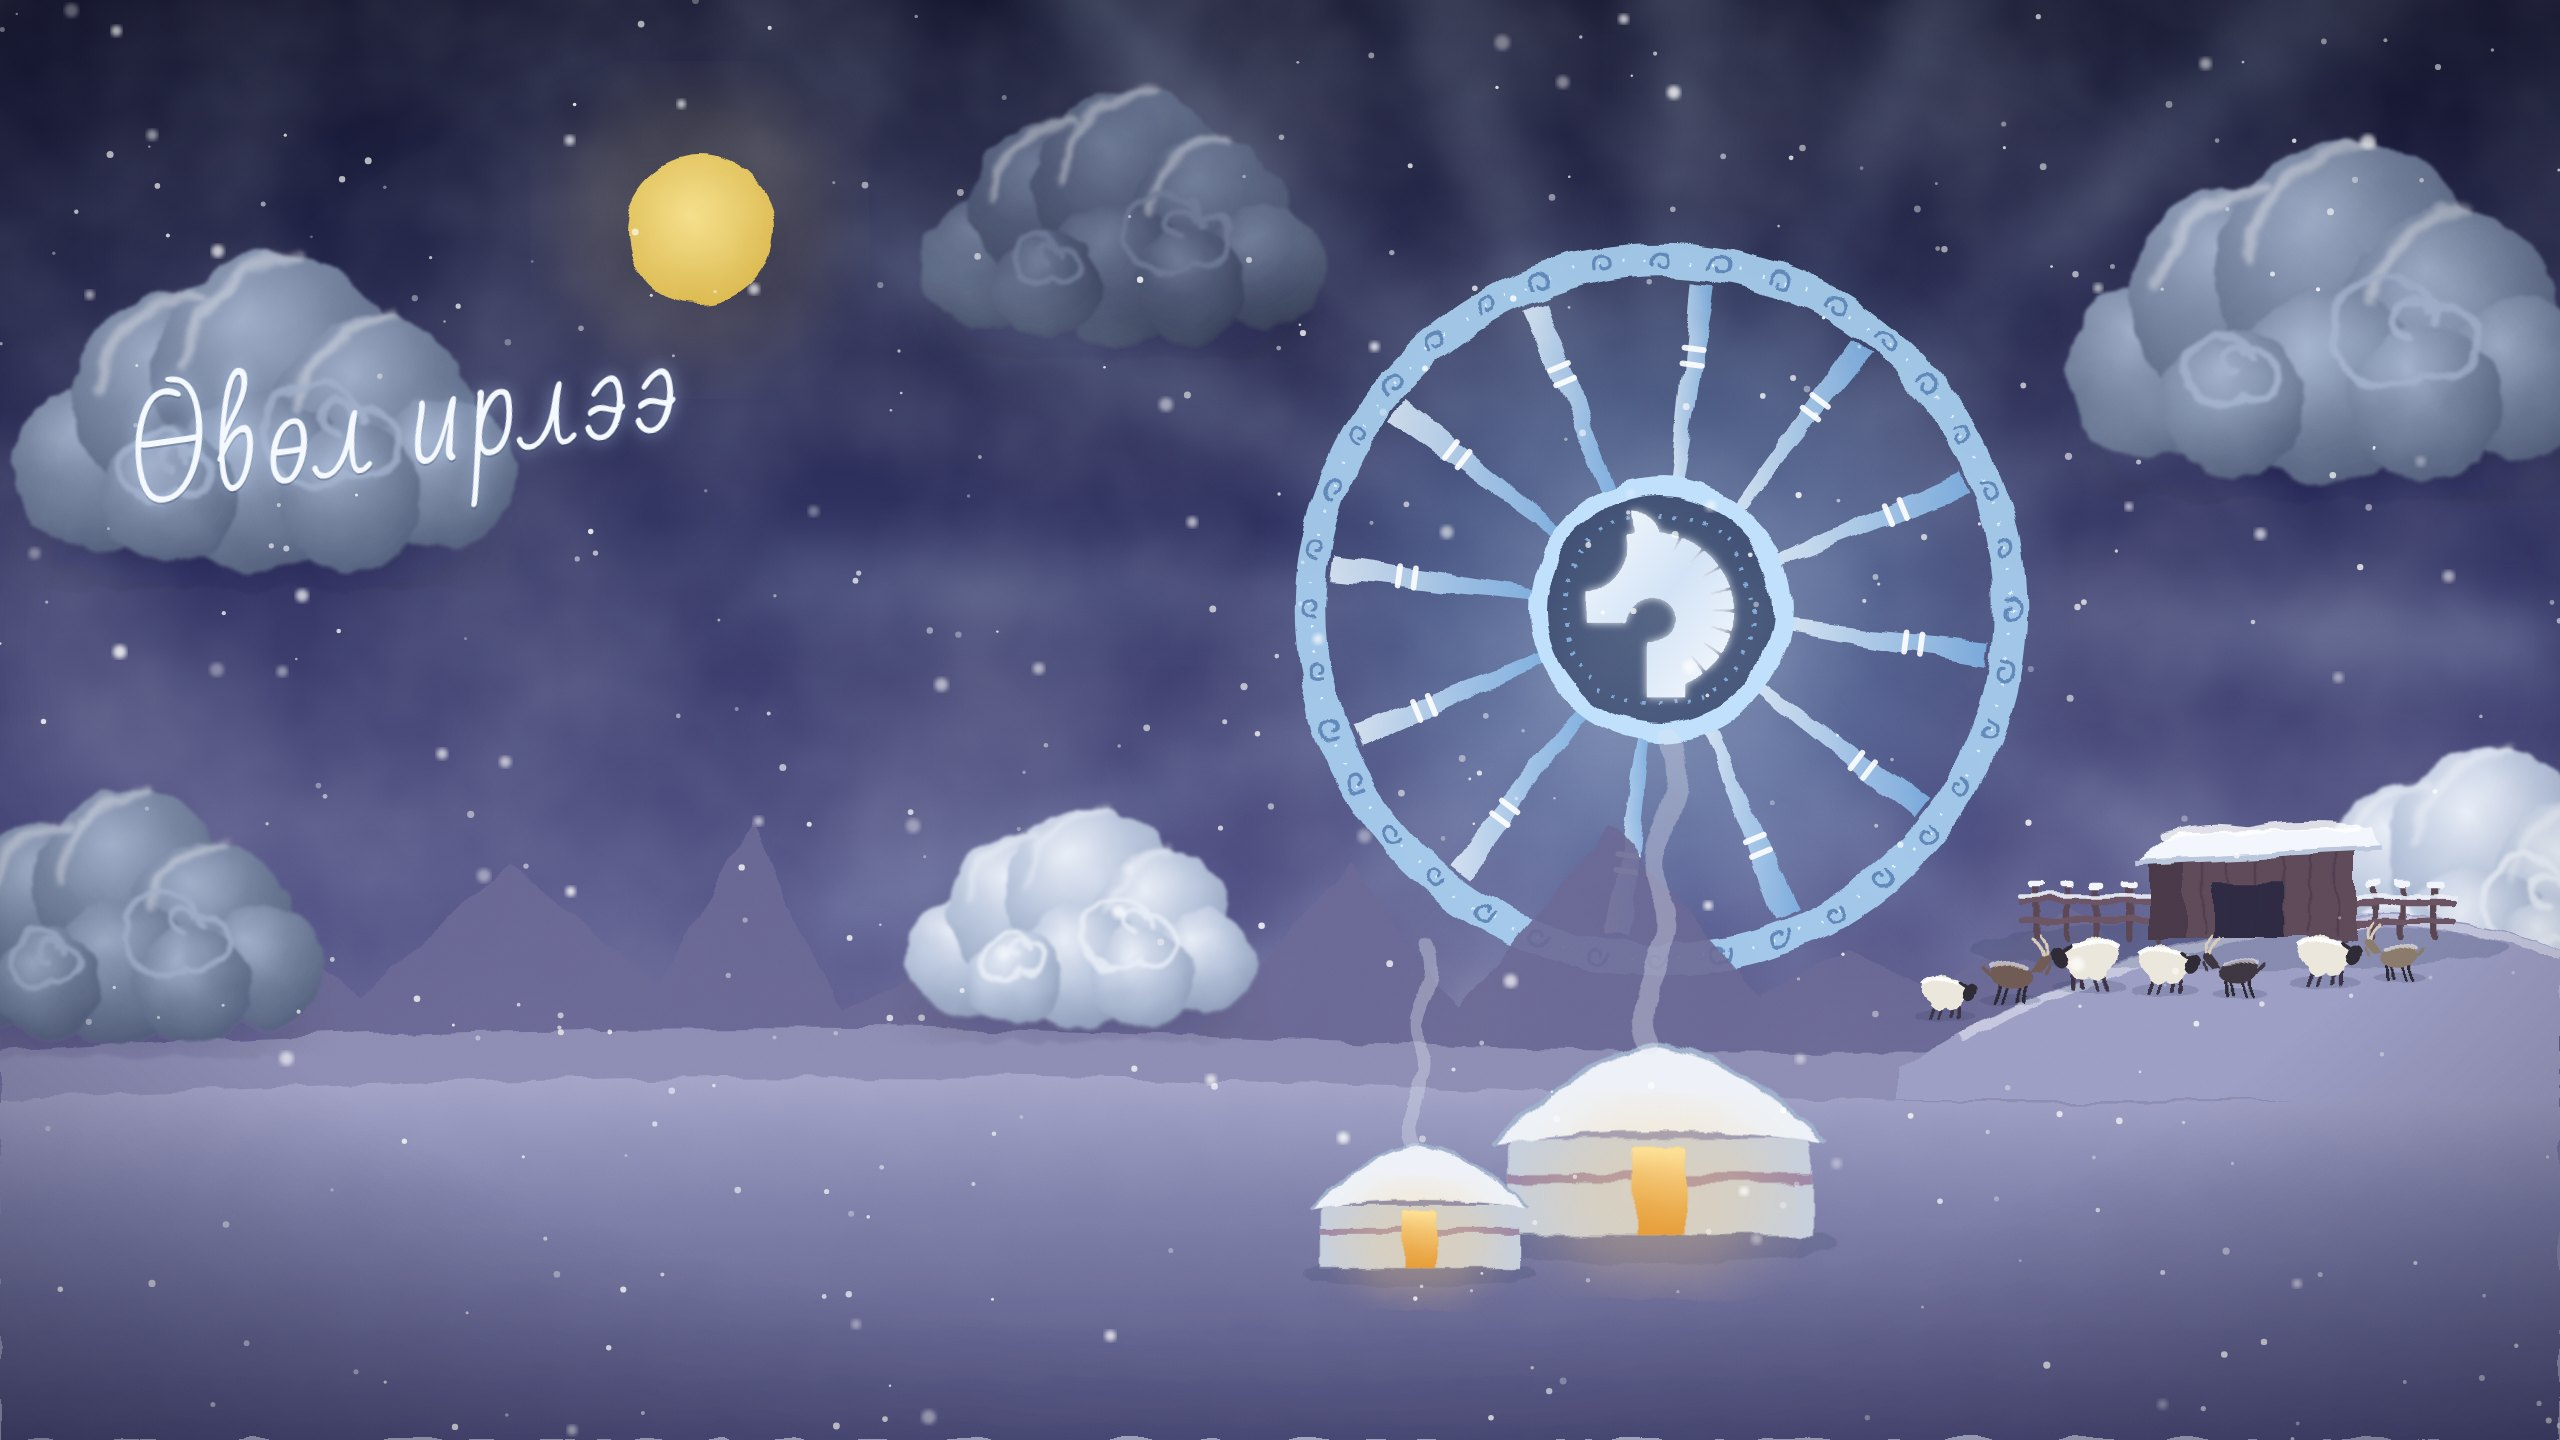
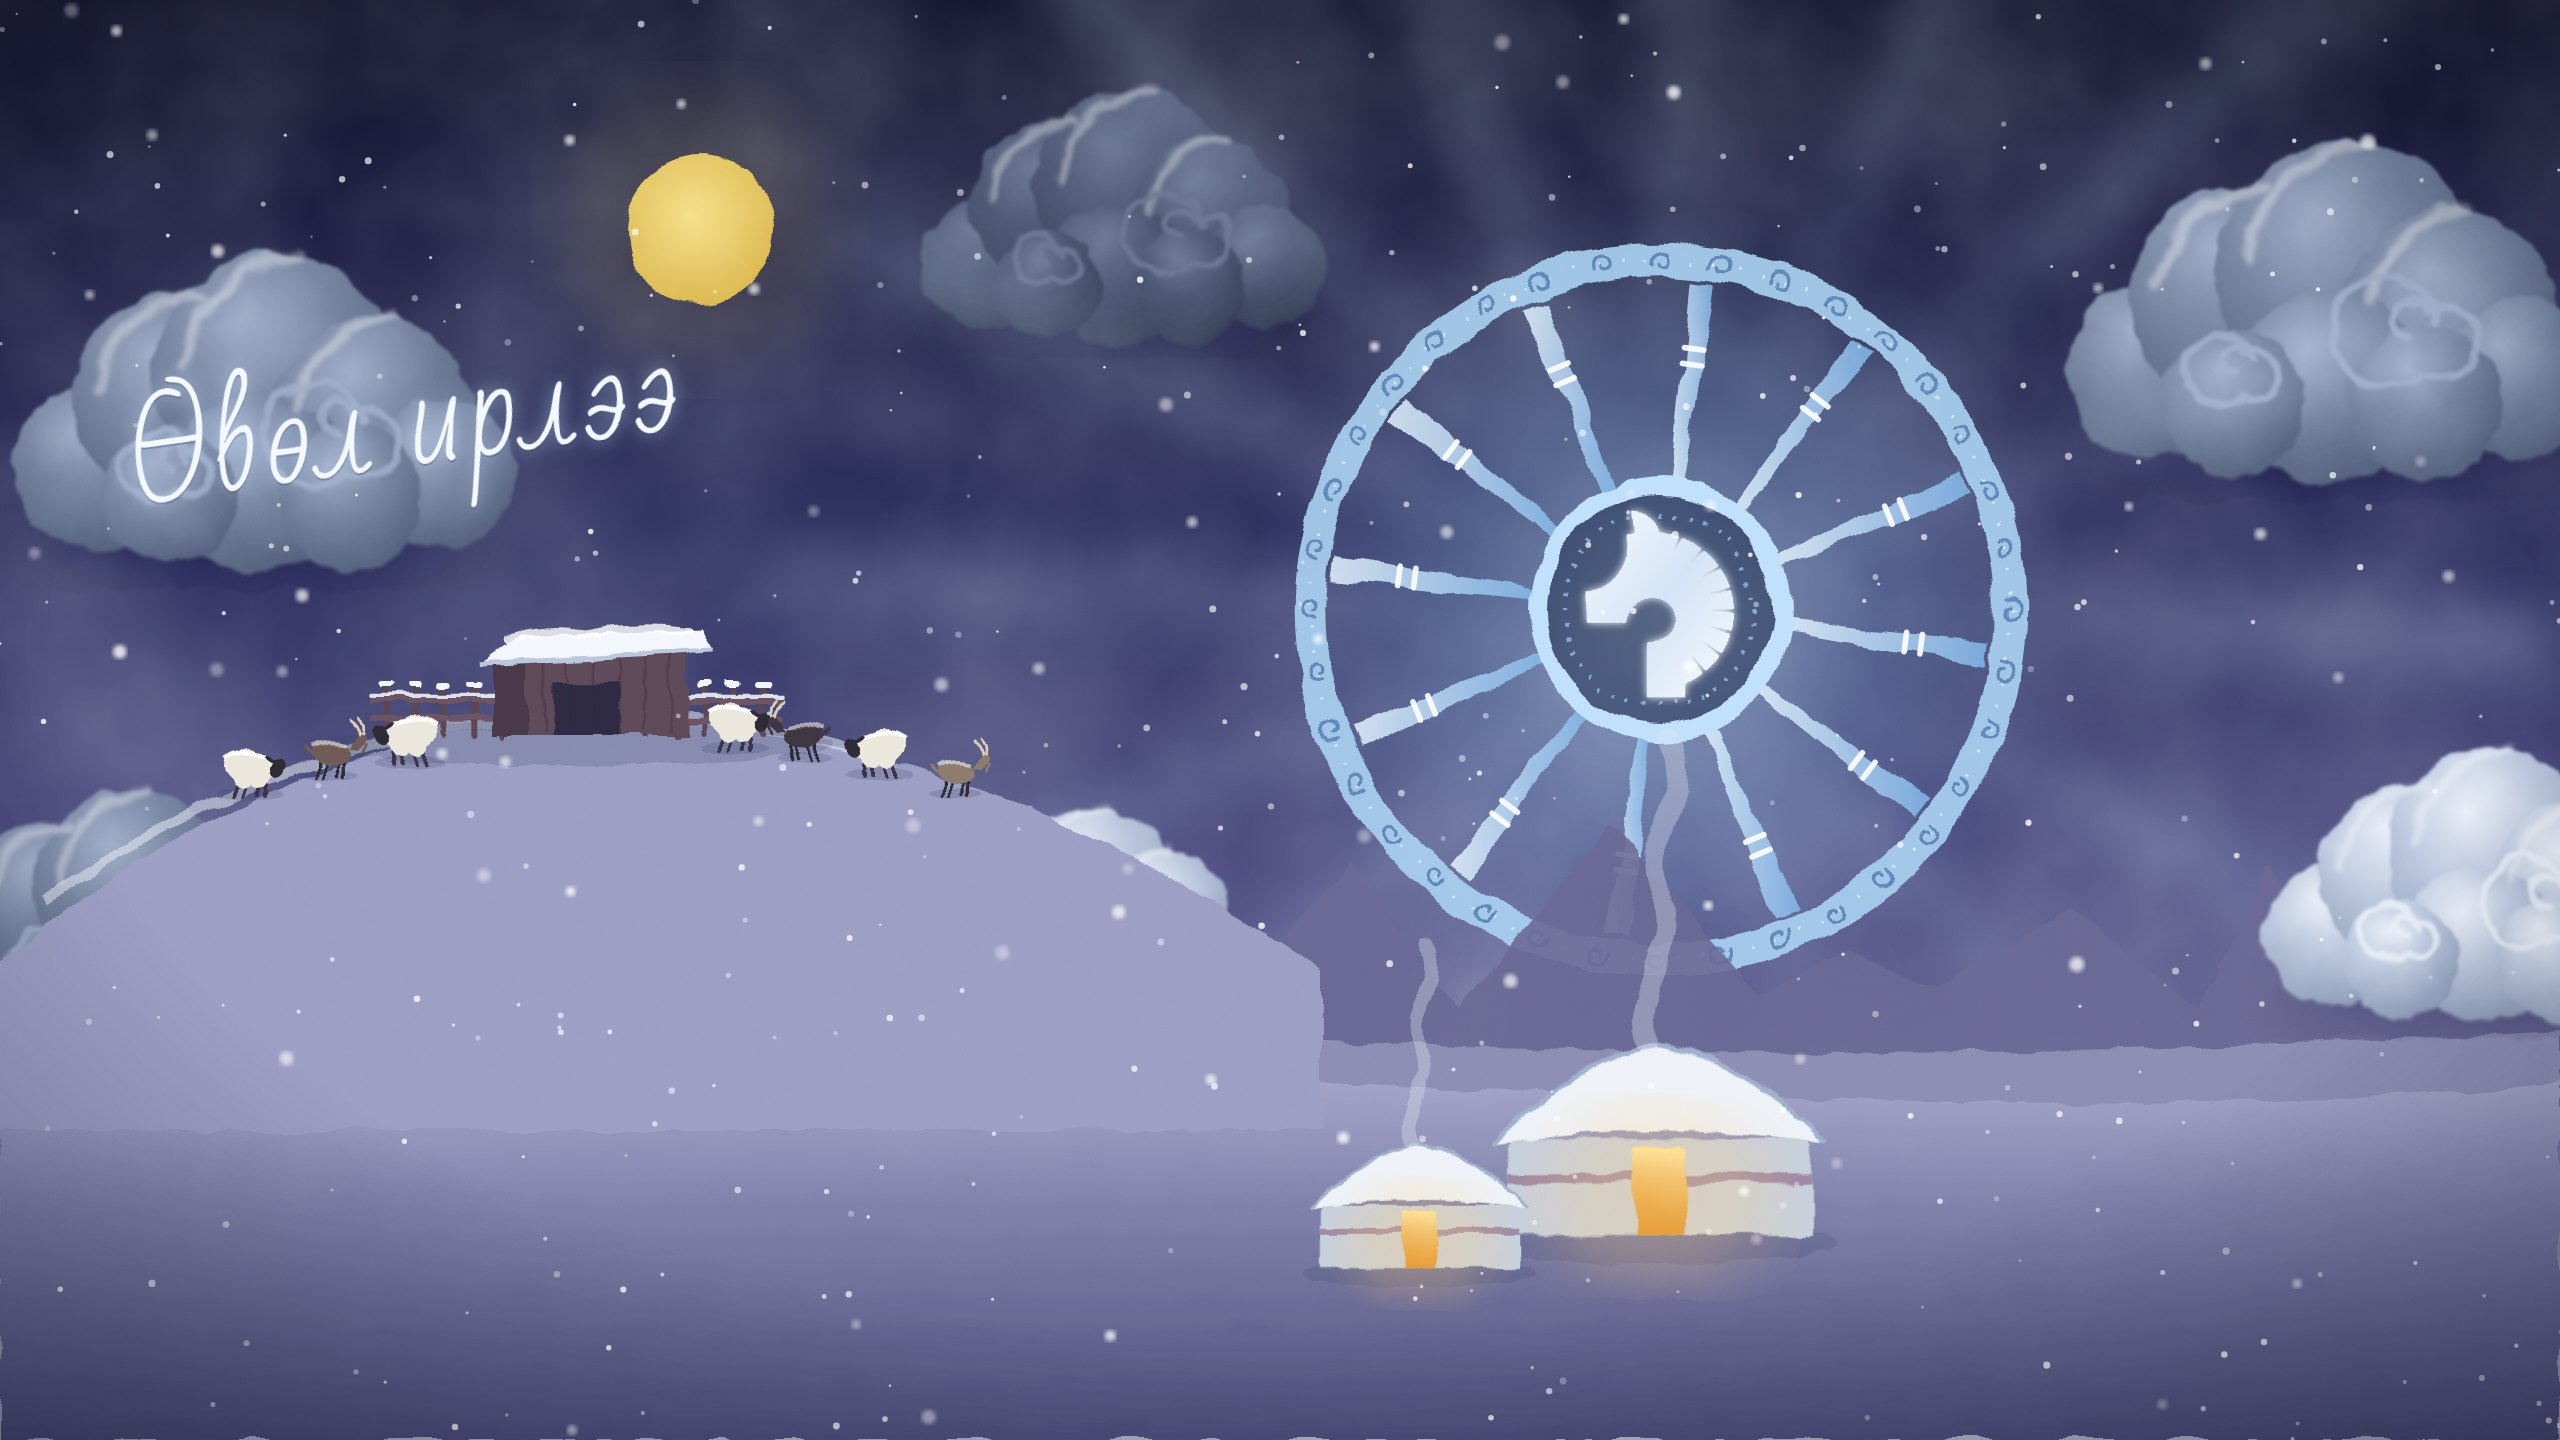
Winter hero: herd moved to a hill on the left; hero fades into the page
Claude-Session: https://claude.ai/code/session_013mTHg5jK5EjhttnQogVYog

Changed region(s): [[0.0, 0.4375, 0.5312, 0.75], [0.75, 0.5625, 1.0, 0.75]]

diff --git a/social/winter-post/hero/buildhero.js b/social/winter-post/hero/buildhero.js
@@ -145,7 +145,7 @@ ${toono(...L.toono)}
 <path d="M0 ${hz + 40} Q${W2 * .25} ${hz} ${W2 * .5} ${hz + 30} T${W2} ${hz + 20} V${H2} H0Z" fill="#8c8cb4" filter="url(#paint)"/>
 <path d="M0 ${hz + 90} Q${W2 * .3} ${hz + 50} ${W2 * .6} ${hz + 80} T${W2} ${hz + 70} V${H2} H0Z" fill="url(#groundN)" filter="url(#paint)"/>
 ${L.clouds.slice(3).map((c) => c.body).join('')}
-${DESK ? `<path d="M1900 ${hz + 60} Q2100 ${hz - 70} 2330 ${hz - 95} Q2480 ${hz - 100} ${W2} ${hz - 60} V${hz + 90} H1900Z" fill="#9c9dc4" filter="url(#paint)"/><path d="M1960 ${hz + 30} Q2140 ${hz - 70} 2340 ${hz - 88} Q2480 ${hz - 92} ${W2} ${hz - 54}" fill="none" stroke="#e7ebf6" stroke-width="10" opacity=".55" filter="url(#paint)"/>` + shelter(2220, hz - 72, .9) + goat(2010, hz - 14, 1.05, 1, '#6e5a52') + sheepW(2090, hz - 28, 1.1, -1) + sheepW(2165, hz - 24, 1, 1) + goat(2240, hz - 20, .95, -1, '#3e3540') + sheepW(2325, hz - 32, 1.05, 1) + goat(2400, hz - 36, .9, -1, '#8a7a6c') + sheepW(1945, hz + 2, .9, 1) : ''}
+${DESK ? `<g transform="translate(0 -70)"><path d="M-20 ${hz + 40} Q150 ${hz - 120} 420 ${hz - 200} Q640 ${hz - 250} 900 ${hz - 175} Q1120 ${hz - 110} 1320 ${hz + 30} V${hz + 190} H-20Z" fill="#9c9dc4" filter="url(#paint)"/><path d="M40 ${hz - 40} Q240 ${hz - 175} 470 ${hz - 215} Q660 ${hz - 248} 880 ${hz - 182}" fill="none" stroke="#e7ebf6" stroke-width="10" opacity=".55" filter="url(#paint)"/>` + shelter(560, hz - 205, .85) + sheepW(250, hz - 150, 1, 1) + goat(330, hz - 168, .95, 1, '#6e5a52') + sheepW(410, hz - 182, 1.05, -1) + sheepW(735, hz - 196, 1, 1) + goat(805, hz - 186, .95, -1, '#3e3540') + sheepW(880, hz - 170, 1, -1) + goat(955, hz - 150, .9, 1, '#8a7a6c') + `</g>` : ''}
 ${L.gers.map(([x, y, k]) => ger(x, y, k)).join('')}
 ${snowH}
 <rect width="${W2}" height="${H2}" fill="url(#vigH)"/>

diff --git a/index.html b/index.html
@@ -26,7 +26,7 @@
   <link rel="preconnect" href="https://fonts.googleapis.com">
   <link rel="preconnect" href="https://fonts.gstatic.com" crossorigin>
   <link href="https://fonts.googleapis.com/css2?family=Inter:wght@400;500;600;700&family=Inter+Tight:wght@500;600;700&family=PT+Serif:ital@0;1&family=Instrument+Serif&display=swap" rel="stylesheet">
-  <link rel="stylesheet" href="css/style.css?v=86">
+  <link rel="stylesheet" href="css/style.css?v=87">
   <script>
     (function () {
       var d = document.documentElement, s = null, l = null;
@@ -64,7 +64,7 @@
 
   <main>
     <section class="hero">
-      <div class="hero__bg hero__bg--winter"><picture><source media="(max-width: 700px)" srcset="assets/img/hero-winter-m.jpg?v=2"><img src="assets/img/hero-winter.jpg?v=2" alt="Winter night illustration: a glowing ger roof crown with the GRIT horse above a snowy camp" fetchpriority="high"></picture></div>
+      <div class="hero__bg hero__bg--winter"><picture><source media="(max-width: 700px)" srcset="assets/img/hero-winter-m.jpg?v=4"><img src="assets/img/hero-winter.jpg?v=4" alt="Winter night illustration: a glowing ger roof crown with the GRIT horse above a snowy camp" fetchpriority="high"></picture></div>
       <div class="container hero__content">
         <div class="hero__main">
           <a class="hero__news" href="/culture/taasan-uu/" data-reveal><span class="hero__news-tag">New</span><b translate="no">Таасан уу?</b><span>a daily history word game</span><span aria-hidden="true">→</span></a>

diff --git a/css/style.css b/css/style.css
@@ -3464,3 +3464,6 @@ body.hbook-open { overflow: hidden; }
 .hero__bg--winter img { object-position: center 40%; }
 .hero__bg--winter::after { background: linear-gradient(180deg, rgba(12, 12, 32, .25) 0%, rgba(12, 12, 32, 0) 35%, rgba(12, 12, 32, .5) 100%); }
 @media (max-width: 700px) { .hero__bg--winter img { object-position: center top; } }
+/* Hero fades into the page below */
+.hero__bg--winter::before { content: ""; position: absolute; left: 0; right: 0; bottom: -1px; height: 22%; z-index: 1; pointer-events: none; background: linear-gradient(180deg, rgba(255, 255, 255, 0) 0%, var(--bg) 100%); }
+[data-theme="dark"] .hero__bg--winter::before { background: linear-gradient(180deg, rgba(0, 0, 0, 0) 0%, var(--bg) 100%); }

diff --git a/culture/index.html b/culture/index.html
@@ -20,7 +20,7 @@
   <link rel="preconnect" href="https://fonts.googleapis.com">
   <link rel="preconnect" href="https://fonts.gstatic.com" crossorigin>
   <link href="https://fonts.googleapis.com/css2?family=Inter:wght@400;500;600;700&family=Inter+Tight:wght@500;600;700&family=PT+Serif:ital@0;1&family=Instrument+Serif&display=swap" rel="stylesheet">
-  <link rel="stylesheet" href="../css/style.css?v=86">
+  <link rel="stylesheet" href="../css/style.css?v=87">
   <script>
     (function () {
       var d = document.documentElement, s = null, l = null;

diff --git a/edu.html b/edu.html
@@ -20,7 +20,7 @@
   <link rel="preconnect" href="https://fonts.googleapis.com">
   <link rel="preconnect" href="https://fonts.gstatic.com" crossorigin>
   <link href="https://fonts.googleapis.com/css2?family=Inter:wght@400;500;600;700&family=Inter+Tight:wght@500;600;700&family=PT+Serif:ital@0;1&family=Instrument+Serif&display=swap" rel="stylesheet">
-  <link rel="stylesheet" href="css/style.css?v=86">
+  <link rel="stylesheet" href="css/style.css?v=87">
   <script>
     (function () {
       var d = document.documentElement, s = null, l = null;

diff --git a/environment.html b/environment.html
@@ -20,7 +20,7 @@
   <link rel="preconnect" href="https://fonts.googleapis.com">
   <link rel="preconnect" href="https://fonts.gstatic.com" crossorigin>
   <link href="https://fonts.googleapis.com/css2?family=Inter:wght@400;500;600;700&family=Inter+Tight:wght@500;600;700&family=PT+Serif:ital@0;1&family=Instrument+Serif&display=swap" rel="stylesheet">
-  <link rel="stylesheet" href="css/style.css?v=86">
+  <link rel="stylesheet" href="css/style.css?v=87">
   <script>
     (function () {
       var d = document.documentElement, s = null, l = null;

diff --git a/member.html b/member.html
@@ -20,7 +20,7 @@
   <link rel="preconnect" href="https://fonts.googleapis.com">
   <link rel="preconnect" href="https://fonts.gstatic.com" crossorigin>
   <link href="https://fonts.googleapis.com/css2?family=Inter:wght@400;500;600;700&family=Inter+Tight:wght@500;600;700&family=PT+Serif:ital@0;1&family=Instrument+Serif&display=swap" rel="stylesheet">
-  <link rel="stylesheet" href="css/style.css?v=86">
+  <link rel="stylesheet" href="css/style.css?v=87">
   <script>
     (function () {
       var d = document.documentElement, s = null, l = null;

diff --git a/plan.html b/plan.html
@@ -20,7 +20,7 @@
   <link rel="preconnect" href="https://fonts.googleapis.com">
   <link rel="preconnect" href="https://fonts.gstatic.com" crossorigin>
   <link href="https://fonts.googleapis.com/css2?family=Inter:wght@400;500;600;700&family=Inter+Tight:wght@500;600;700&family=PT+Serif:ital@0;1&family=Instrument+Serif&display=swap" rel="stylesheet">
-  <link rel="stylesheet" href="css/style.css?v=86">
+  <link rel="stylesheet" href="css/style.css?v=87">
   <script>
     (function () {
       var d = document.documentElement, s = null, l = null;

diff --git a/research.html b/research.html
@@ -20,7 +20,7 @@
   <link rel="preconnect" href="https://fonts.googleapis.com">
   <link rel="preconnect" href="https://fonts.gstatic.com" crossorigin>
   <link href="https://fonts.googleapis.com/css2?family=Inter:wght@400;500;600;700&family=Inter+Tight:wght@500;600;700&family=PT+Serif:ital@0;1&family=Instrument+Serif&display=swap" rel="stylesheet">
-  <link rel="stylesheet" href="css/style.css?v=86">
+  <link rel="stylesheet" href="css/style.css?v=87">
   <script>
     (function () {
       var d = document.documentElement, s = null, l = null;
